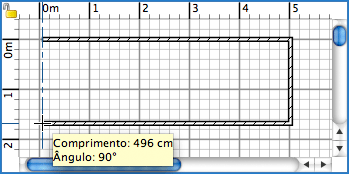
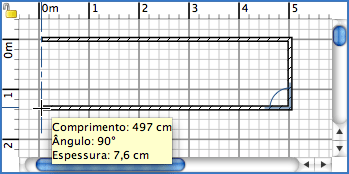
Updated help for new version

Changed region(s): [[0.0, 0.0, 0.9456, 1.0]]

diff --git a/trunk/SweetHome3D/src/com/eteks/sweethome3d/viewcontroller/resources/help/fr/editingPreferences.html b/trunk/SweetHome3D/src/com/eteks/sweethome3d/viewcontroller/resources/help/fr/editingPreferences.html
@@ -28,27 +28,45 @@
 	<tr>
 	<td><p>Pour &eacute;diter les pr&eacute;f&eacute;rences de Sweet Home 3D, choisissez <i>Sweet Home 3D &gt; Pr&eacute;f&eacute;rences...</i> sous
 	    Mac OS X ou <i>Fichier &gt; Pr&eacute;f&eacute;rences...</i> sous les autres syst&egrave;mes d'exploitation.</p>
-	  <p align="center"><img src="images/editingPreferences.png" width="300" height="233"></p>
+	  <p align="center"><img src="images/editingPreferences.png" width="424" height="306"></p>
 	  <p>Dans le panneau des pr&eacute;f&eacute;rences, vous pouvez choisir la <i>Langue</i> utilis&eacute;e dans l'interface utilisateur
 	    de Sweet Home 3D et l'<i>Unit&eacute;</i> utilis&eacute;e
 	    pour dessiner les r&egrave;gles et la grille du plan du
-	    logement, et pour afficher les longueurs. <br>
-	    La bo&icirc;te &agrave; cocher <i>Magn&eacute;tisme</i> active ou d&eacute;sactive le magn&eacute;tisme utilis&eacute; dans le plan du logement
-	    au cours du dessin des murs et le positionnement des meubles.<br>
-	    La bo&icirc;te &agrave; cocher <i>R&egrave;gles</i> permet de rendre visibles ou invisibles les r&egrave;gles affich&eacute;es
-	    en haut et &agrave; gauche du plan.<br>
-	    La bo&icirc;te &agrave; cocher <i>Grille</i> permet de rendre visible ou invisible la grile affich&eacute;e
-	    sous le plan.<br>
-La valeur de l'<i>Epaisseur des nouveaux murs</i> d&eacute;termine l'&eacute;paisseur des murs qui seront cr&eacute;&eacute;s
-	    une fois que le panneau des pr&eacute;f&eacute;rences sera ferm&eacute;.<br>
-	    La valeur de la <i>Hauteur des nouveaux murs</i> d&eacute;termine la hauteur des murs  qui seront
-	    cr&eacute;&eacute;s
-	    une fois que le panneau des pr&eacute;f&eacute;rences sera ferm&eacute;.</p>
-	  <p>Finallement, le bouton <i>R&eacute;initialiser l'affichage des conseils</i> r&eacute;initialise les r&eacute;ponses que vous avez
+	    logement, et pour afficher les longueurs. </p>
+	  <p> La bo&icirc;te &agrave; cocher <i>Magn&eacute;tisme</i> active ou d&eacute;sactive le magn&eacute;tisme utilis&eacute; dans
+	    le plan du logement au cours du dessin des murs et le positionnement des meubles.<br>
+	      La bo&icirc;te &agrave; cocher <i>R&egrave;gles</i> permet de rendre visibles ou invisibles les r&egrave;gles affich&eacute;es
+	      en haut et &agrave; gauche du plan.<br>
+	      La bo&icirc;te &agrave; cocher <i>Grille</i> permet de rendre visible ou invisible la grile affich&eacute;e
+	      sous le plan.<br>
+	      Les boutons radio <i>Ic&ocirc;nes du catalogue</i> et <i>Vue de dessus</i> permettent de choisir comment seront
+	      dessin&eacute;s les meubles dans le plan (voir les images ci-dessous).<br>
+Les boutons radio <i></i><i>Monochrome</i> et <i>Couleur ou texture du sol</i> permettent de choisir si les pi&egrave;ces doivent
+&ecirc;tre remplies dans le plan avec la couleur ou de la texture que vous avez choisies pour leur sol, ou en gris (en blanc
+&agrave; l'impression).<br>
+La liste d&eacute;roulante <i>Motif des murs dans le plan</i> permet de choisir le motif de remplissage des murs dans le
+plan.</p>
+	  <p>La valeur de l'<i>Epaisseur des nouveaux murs</i> d&eacute;termine l'&eacute;paisseur des murs qui seront cr&eacute;&eacute;s
+	        une fois que le panneau des pr&eacute;f&eacute;rences sera ferm&eacute;.<br>
+          La valeur de la <i>Hauteur des nouveaux murs</i> d&eacute;termine la hauteur des murs  qui seront
+	        cr&eacute;&eacute;s
+	        une fois que le panneau des pr&eacute;f&eacute;rences sera ferm&eacute;.</p>	  <p>Finallement, le bouton <i>R&eacute;initialiser l'affichage des conseils</i> r&eacute;initialise les r&eacute;ponses que vous avez
 	    donn&eacute;es aux bo&icirc;tes &agrave; cocher <i>Ne plus afficher ce conseil</i> affich&eacute;es dans les conseils
 	    qui apparaissent quand vous cliquez sur certains outils. Ceci implique que tous les dialogues o&ugrave; vous avez coch&eacute;
-	    cette option r&eacute;apparaitont au moment o&ugrave; vous cliquerez &agrave; nouveau sur ces outils.<br>
-        </p></td>
+	    cette option r&eacute;apparaitont au moment o&ugrave; vous cliquerez &agrave; nouveau sur ces outils.</p>
+	  <table border="0" align="center" cellpadding="0" cellspacing="5">
+        <tr align="center">
+          <td><img src="../images/defaultRendering.png" width="332" height="296"></td>
+          <td rowspan="2">&nbsp;&nbsp;&nbsp;</td>
+          <td><img src="../images/coloredRendering.png" width="332" height="296"></td>
+        </tr>
+        <tr>
+          <td align="center" valign="top">Rendu du plan par d&eacute;faut avec les ic&ocirc;nes du catalogue,<br>
+      les sols monochromes et les murs hachur&eacute;s</td>
+          <td align="center" valign="top">Rendu du plan avec les meubles vus de dessus,<br>
+      les sols color&eacute;s, et les murs en noir</td>
+        </tr>
+      </table></td>
 	</tr>
 </table>
 <div id="taskbox">
@@ -62,6 +80,16 @@ La valeur de l'<i>Epaisseur des nouveaux murs</i> d&eacute;termine l'&eacute;pai
           <td><p>Les pr&eacute;f&eacute;rences sont partag&eacute;es par toutes les fen&ecirc;tres Sweet Home 3D. Ainsi,
               la modification des pr&eacute;f&eacute;rences
               affectera toutes les fen&ecirc;tres ouvertes.</p>
+          </td>
+        </tr>
+        <tr valign="top">
+          <td><p>&#149;</p>
+          </td>
+          <td>
+            <p>Il est possible que la vue de dessus des meubles ne soit pas disponible &agrave; cause d'une configuration
+              limit&eacute;e
+              de votre syst&egrave;me. Dans ce cas, les boutons radio <i>Ic&ocirc;nes du catalogue</i> et <i>Vue de dessus</i> seront
+              d&eacute;sactiv&eacute;s.</p>
           </td>
         </tr>
         <tr valign="top">

diff --git a/trunk/SweetHome3D/src/com/eteks/sweethome3d/viewcontroller/resources/help/en/editingPreferences.html b/trunk/SweetHome3D/src/com/eteks/sweethome3d/viewcontroller/resources/help/en/editingPreferences.html
@@ -28,24 +28,40 @@
 	<tr>
 	<td><p>To edit Sweet Home 3D preferences, choose <i>Sweet Home 3D &gt; Preferences...</i> under Mac OS X or <i>File &gt; Preferences...</i> under
 	    other systems.</p>
-	  <p align="center"><img src="images/editingPreferences.png" width="244" height="230"></p>
+	  <p align="center"><img src="images/editingPreferences.png" width="338" height="305"></p>
 	  <p>In the preferences pane, you can choose the <i>Language</i> used in Sweet Home 3D user interface and the <i>Unit</i> used
-	    to draw  the rulers and grid of the home plan, and to display lengths and areas.<br>
-	    The <i>Magnetism</i> check
-	    box enables or disables the magnetism used in the home plan during <a href="drawingWalls.html">walls drawing</a> and <a href="editingFurniture.html">furniture
-	    placing</a>.<br>
-	    The <i>Rulers</i> check box allows to make the rulers around the plan visible or invisible.<br>
-	    The <i>Grid</i> check box allows to make the grid in the plan visible or invisible.<br>
-	      The <i>New walls thickness</i> value sets the thickness of all the walls that will be created once the preferences
-	      pane will be closed.<br>
-	      The <i>New  walls height</i> value 
-	      sets the height of all the walls that will be created once the preferences pane will
-      be closed.                                                                                                                                                                                                                                                                                                                                                                                                                                                                                                                                                                                                                                                                                                                                                                                                                                                                                                                                                                                                                                       </p>
-	  <p>Finally, the <i>Reset the display of tips</i> button resets the answers you gave to the check box <i>Do not display
+	    to draw  the rulers and grid of the home plan, and to display lengths and areas.</p>
+	  <p>	      The <i>Magnetism</i> check
+	      box enables or disables the magnetism used in the home plan during <a href="drawingWalls.html">walls drawing</a> and <a href="editingFurniture.html">furniture
+	      placing</a>.<br>
+	      The <i>Rulers</i> check box allows to make the rulers around the plan visible or invisible.<br>
+	      The <i>Grid</i> check box allows to make the grid in the plan visible or invisible.<br>
+	      The <i>Catalog icons</i> and  <i>Top view</i> radio buttons let you choose how the furniture should be drawn in
+	      the plan (see images below).<br>
+	      The <i>Monochrome</i> and <i>Floor color or texture</i> radio buttons let you choose whether rooms should be drawn
+	      in plan filled with the color or texture you chose for their floor, or with a grey color (printed as white).<br>
+	      The <i>Wall pattern in plan</i> combo box lets you choose the pattern used to fill walls in plan.</p>
+	  <p>	      The <i>New walls thickness</i> value sets the thickness of all the walls that will be created once the preferences
+	        pane will be closed.<br>
+          The <i>New  walls height</i> value 
+	        sets the height of all the walls that will be created once the preferences pane will
+        be closed. </p>	  <p>Finally, the <i>Reset the display of tips</i> button resets the answers you gave to the check box <i>Do not display
 	      this tip again</i> shown in the tips dialog boxes displayed when you click on some tools. This means that all the
 	      dialog boxes where you selected this check box  will appear
-	    again.<br>
-        </p></td>
+	    again.</p>
+	  <table border="0" align="center" cellpadding="0" cellspacing="5">
+        <tr align="center">
+          <td><img src="../images/defaultRendering.png" width="332" height="296"></td>
+          <td rowspan="2">&nbsp;&nbsp;&nbsp;</td>
+          <td><img src="../images/coloredRendering.png" width="332" height="296"></td>
+        </tr>
+        <tr>
+          <td align="center" valign="top">Default plan rendering with catalog icons,<br>
+            monochrome floors and walls filled with a hatch pattern</td>
+          <td align="center" valign="top">Plan rendering with top view furniture icons,<br>
+            floor colors, and walls filled with black color</td>
+        </tr>
+      </table>	  </td>
 	</tr>
 </table>
 <div id="taskbox">
@@ -59,6 +75,14 @@
 	    <td><p>Preferences are shared by all Sweet Home 3D windows. Therefore, editing preferences will have an effect on all
 	        opened windows.</p>
 	      </td>
+	    </tr>
+	  <tr valign="top">
+        <td><p>&#149;</p>
+        </td>
+        <td>
+          <p>Furniture icons seen from top  may not be available due to a limited configuration of your system. In
+            that case, the <i>Catalog icons</i> and <i>Top view</i> radio buttons will be  disabled.</p>
+        </td>
 	    </tr>
 	  <tr valign="top"><td width="16"><p>&#149;</p></td><td><p>Magnetism set
 	        in preferences pane can be temporarily toggled in the home plan, by pressing the <i>shift</i> key.</p></td></tr>

diff --git a/trunk/SweetHome3D/src/com/eteks/sweethome3d/viewcontroller/resources/help/en/drawingWalls.html b/trunk/SweetHome3D/src/com/eteks/sweethome3d/viewcontroller/resources/help/en/drawingWalls.html
@@ -33,15 +33,18 @@
 	        walls</i> tool</p>
 	    </blockquote>	  
 	  <p>Click in the home plan at the start point of the new wall, then click or double-click in the plan at its end point.
-	    As long as you don't double-click or press the <i>Escape</i> key, each new click indicates the opposite point of the current
-	    wall and the start point of the next wall. While drawing a set of walls, the start point of the first wall will
-	    be
+	    As long as you don't double-click or press the <i>Escape</i> key, each new click indicates the opposite point of the
+	    current wall and the start point of the next wall. While drawing a set of walls, the start point of the first wall
+	    will be
 	    attached to
 	    an existing
 	    wall start or end point if you
 	    click on that point, and the last  wall will be attached to another wall start or end point by
-	    double-clicking on that point. The clicked points are at the middle of the thickness of the drawn walls.<br>
-	    Walls are simultaneously drawn in the plan and in the 3D view.</p>
+	    double-clicking on that point. The clicked points are at the middle of the thickness of the drawn walls&nbsp;; the
+	     thickness and the  height of new walls can be changed in the <a href="editingPreferences.html">preferences</a> pane.<br>
+	    If you already <a href="drawingRooms.html">drew a room</a>, you can also create the
+	    walls around it by  double-clicking anywhere in that room. <br>
+      Walls are simultaneously drawn in the plan and in the 3D view.                                                                                                                                                                                                                                                                                                                                                                                                                                                                                                                                                                                                                                                                                                                                                                                                                                                                                                                                                                                                                                       </p>
 	  <p align="center"><img src="images/drawingWalls.png" alt="Drawing walls" width="349" height="174"></p>	  
 	  <p>To end
 	    the drawing of walls, choose <i>Plan &gt; Select </i> or select the <i>Select</i> tool.</p>
@@ -69,7 +72,13 @@
           <p>&#149;</p>
         </td>
         <td>
-          <p>To help you draw walls precisely, use wall length tooltip and alignment  lines.</p>
+          <p>To help you draw walls precisely, use the wall tooltip and the alignment  lines. If you press the <i>enter</i> key
+            when the plan has the focus, the values displayed in the tooltip will become editable to let you enter with the
+            keyboard the length, the angle and the thickness of the current wall (if you didn't start any wall yet,
+            the tooltip will display the coordinates of the start point of the new wall). Use the <i>up arrow</i>, <i>down
+            arrow</i> or <i>tab</i> keys
+            to edit an other value and press again the <i>enter</i> key to confirm the values you entered. If you want to
+            use again the mouse to draw walls, simply move it over the plan.</p>
         </td>
 	    </tr>
 	  <tr valign="top">
@@ -106,7 +115,7 @@
         </td>
         <td>
           <p>The unit displayed by default in tooltips, plan rulers and plan grid depends on your country. You may switch
-            to Centimeter or Inch in the <a href="editingPreferences.html">preferences</a> pane.          
+            to Centimeter, Meter, Millimeter  or Inch in the <a href="editingPreferences.html">preferences</a> pane.          
         </td>
 	    </tr>
 	  <tr valign="top">

diff --git a/trunk/SweetHome3D/src/com/eteks/sweethome3d/viewcontroller/resources/help/fr/drawingWalls.html b/trunk/SweetHome3D/src/com/eteks/sweethome3d/viewcontroller/resources/help/fr/drawingWalls.html
@@ -39,7 +39,10 @@
 	    d'un ensemble de murs, l'extr&eacute;mit&eacute; de d&eacute;part du premier mur sera attach&eacute;e &agrave; l'extr&eacute;mit&eacute; d'un
 	    mur existant si vous cliquez sur cette extr&eacute;mit&eacute;, et le dernier mur sera attach&eacute; &agrave; l'extr&eacute;mit&eacute; d'un
 	    autre mur si vous double-cliquez sur cette extr&eacute;mit&eacute;. Les extr&eacute;mit&eacute;s des murs que vous d&eacute;signez &agrave; chaque
-	    clic sont au milieu de l'&eacute;paisseur des murs dessin&eacute;s.<br>
+	    clic sont au milieu de l'&eacute;paisseur des murs dessin&eacute;s&nbsp;; l'&eacute;paisseur et la hauteur  des nouveaux
+	    murs peut &ecirc;tre modifi&eacute;es dans le panneau des <a href="editingPreferences.html">pr&eacute;f&eacute;rences</a>.<br>
+Si vous avez d&eacute;j&agrave; <a href="drawingRooms.html">dessin&eacute; une pi&egrave;ce</a>, vous pouvez cr&eacute;er aussi
+les murs autour de celle-ci en double-cliquant n'importe o&ugrave; dans cette pi&egrave;ce.<br>
 	    Les murs sont dessin&eacute;s simultan&eacute;ment dans le plan et dans la vue 3D.</p>
 	  <p align="center"><img src="images/drawingWalls.png" alt="Drawing walls" width="349" height="176"></p>	  
 	  <p>Pour terminer le dessin des murs, choisissez <i>Plan &gt; S&eacute;lectionner</i> ou s&eacute;lectionnez l'outil <i>S&eacute;lectionner</i> (ou
@@ -68,8 +71,15 @@
           <p>&#149;</p>
         </td>
         <td>
-          <p>Pour vous aider &agrave; dessiner les murs avec pr&eacute;cision, utilisez l'info-bulle indiquant la longueur
-            du mur et les lignes d'alignement sur les autres murs.</p>
+          <p>Pour vous aider &agrave; dessiner les murs avec pr&eacute;cision, utilisez l'info-bulle associ&eacute;e
+            au mur et les lignes d'alignement sur les autres murs. Si vous appuyez sur la touche <i>entr&eacute;e</i> quand
+            le plan a le focus, les valeurs affich&eacute;es dans l'info-bulle deviendront &eacute;ditables pour vous permettre
+            d'entrer au clavier la longueur, l'angle et l'&eacute;paisseur du mur en cours  (si vous n'avez d&eacute;but&eacute; aucun
+            mur, l'info-bulle affichera les coordonn&eacute;es du point de d&eacute;part du nouveau mur). Utilisez les touches <i>fl&egrave;che
+            haut</i>, <i>fl&egrave;che
+            bas</i>            ou <i>tab</i> pour &eacute;diter une autre valeur et appuyez &agrave; nouveau sur la touche <i>entr&eacute;e</i>            pour
+            confirmer les valeurs saisies. Si vous voulez r&eacute;utiliser la souris pour dessiner les murs, d&eacute;placez
+            simplement la souris dans le plan.</p>
         </td>
 	    </tr>
 	  <tr valign="top">
@@ -107,7 +117,8 @@
         </td>
         <td>
           <p>L'unit&eacute; affich&eacute;e par d&eacute;faut dans les info-bulles, les r&egrave;gles et la grille du plan
-            d&eacute;pend de votre pays. Vous pouvez choisir entre le Centim&egrave;tre et le Pouce dans le panneau des <a href="editingPreferences.html">pr&eacute;f&eacute;rences</a>. </td>
+            d&eacute;pend de votre pays. Vous pouvez choisir entre le Centim&egrave;tre, le M&egrave;tre, le Millim&egrave;tre  et
+            le Pouce dans le panneau des <a href="editingPreferences.html">pr&eacute;f&eacute;rences</a>. </td>
 	    </tr>
 	  <tr valign="top">
         <td>

diff --git a/trunk/SweetHome3D/src/com/eteks/sweethome3d/viewcontroller/resources/help/fr/drawingRooms.html b/trunk/SweetHome3D/src/com/eteks/sweethome3d/viewcontroller/resources/help/fr/drawingRooms.html
@@ -109,12 +109,28 @@
           <p>&#149;</p>
         </td>
         <td>
-          <p>Pour vous aider &agrave; dessiner les pi&egrave;ces avec pr&eacute;cision, utilisez les lignes d'alignement
-             et les guides ponctuels qui apparaissent &agrave; l'approche de l'intersection des murs. Si vous voulez d&eacute;sactiver
-             le magn&eacute;tisme appliqu&eacute; &agrave; l'intersection des murs et &agrave; l'angle des lignes que vous dessinez,
-             maintenez la touche
-            <i>majuscule</i> enfonc&eacute;e pendant le dessin, ou  d&eacute;sactivez le magn&eacute;tisme dans le panneau
-            des<a href="editingPreferences.html"> pr&eacute;f&eacute;rences</a>.</p>
+          <p>Pour vous aider &agrave; dessiner les pi&egrave;ces avec pr&eacute;cision, utilisez les info-bulles, les lignes
+            d'alignement et les guides ponctuels qui apparaissent &agrave; l'approche de l'intersection des murs. Si vous
+            appuyez sur la touche <i>entr&eacute;e</i> quand le plan a le focus, les valeurs affich&eacute;es dans l'info-bulle
+            deviendront &eacute;ditables pour vous permettre d'entrer au clavier la longueur et l'angle 
+            du segment en cours (si vous n'avez pas encore  d&eacute;sign&eacute; le premier point de la pi&egrave;ce, l'info-bulle
+            affichera les coordonn&eacute;es
+            de ce point). Utilisez les touches <i>fl&egrave;che haut</i>, <i>fl&egrave;che
+            bas</i> ou <i>tab</i> pour &eacute;diter
+            une autre valeur et appuyez &agrave; nouveau sur la touche <i>entr&eacute;e</i> pour confirmer les valeurs saisies.
+            Si vous voulez r&eacute;utiliser la souris pour dessiner la pi&egrave;ce, d&eacute;placez simplement la souris
+            dans le plan.</p>
+        </td>
+	    </tr>
+	  <tr valign="top">
+        <td>
+          <p>&#149;</p>
+        </td>
+        <td>
+          <p> Si vous voulez d&eacute;sactiver
+            le magn&eacute;tisme appliqu&eacute; &agrave; l'intersection des murs et &agrave; l'angle des lignes que vous
+            dessinez, maintenez la touche <i>majuscule</i> enfonc&eacute;e pendant le dessin, ou d&eacute;sactivez le magn&eacute;tisme
+            dans le panneau des<a href="editingPreferences.html"> pr&eacute;f&eacute;rences</a>.</p>
         </td>
 	    </tr>
 	  <tr valign="top">
@@ -133,7 +149,8 @@
         </td>
         <td>
           <p>L'unit&eacute; affich&eacute;e par d&eacute;faut dans les pi&egrave;ces, les r&egrave;gles et la grille du plan
-            d&eacute;pend de votre pays. Vous pouvez choisir entre le Centim&egrave;tre et le Pouce dans le panneau des <a href="editingPreferences.html">pr&eacute;f&eacute;rences</a>.
+            d&eacute;pend de votre pays. Vous pouvez choisir entre le Centim&egrave;tre, le M&egrave;tre, le Millim&egrave;tre  et
+            le Pouce dans le panneau des <a href="editingPreferences.html">pr&eacute;f&eacute;rences</a>.
             Si l'unit&eacute; choisie est le Pouce, la superficie des pi&egrave;ces sera affich&eacute;e en pied carr&eacute; (sq ft), sinon elle sera
             affich&eacute;e en m&egrave;tre carr&eacute; (m&sup2;).</td>
 	    </tr>

diff --git a/trunk/SweetHome3D/src/com/eteks/sweethome3d/viewcontroller/resources/help/en/drawingRooms.html b/trunk/SweetHome3D/src/com/eteks/sweethome3d/viewcontroller/resources/help/en/drawingRooms.html
@@ -36,7 +36,7 @@
 	  <ul>
 	    <li>click at each corner of the room, then double-click at its last point
 	      or press the <i>Escape</i> key after you added the last point, </li>
-	    <li>double-click anywhere inside an existing <b>closed</b> surface (i.e. surrounded by walls).</li>
+	    <li>double-click anywhere inside an existing <b>closed</b> surface (i.e. surrounded by <a href="drawingWalls.html">walls</a>).</li>
 	  </ul>
 	  <p>When you draw a room point by point under  magnetism activated, a colored point guide will show up  to help you click
 	    at each corner of the room. A room created with a double click will cover the floor area from wall to wall surrounding
@@ -104,9 +104,25 @@
           <p>&#149;</p>
         </td>
         <td>
-          <p>To help you draw rooms precisely, use  alignment  lines and wall intersection point guides. If you want to disable
-            the activated magnetism  on wall intersection points and for the angles of the lines you draw, hold
-            down the <i>shift</i> key while drawing, or by disabling magnetism in the <a href="editingPreferences.html">preferences</a> pane.</p>
+          <p>To help you draw rooms precisely, use  tooltips, alignment  lines and wall intersection point guides. If you
+            press the <i>enter</i> key
+            when the plan has the focus, the values displayed in the tooltip will become editable to let you enter with the
+            keyboard the length and the angle  of the current segment (if you didn't indicate
+            the first
+            point of the room yet, the tooltip will display the coordinates of that point). Use the
+            up arrow, down arrow
+            or <i>tab</i> keys
+            to edit an other value and press again the <i>enter</i> key to confirm the values you entered. If you want to
+            use again the mouse to draw the room, simply move it over the plan.</p>
+        </td>
+	    </tr>
+	  <tr valign="top">
+        <td>
+          <p>&#149;</p>
+        </td>
+        <td>
+          <p>If you want to disable the activated magnetism on wall intersection points and for the angles of the lines you
+            draw, hold down the <i>shift</i> key while drawing, or by disabling magnetism in the <a href="editingPreferences.html">preferences</a> pane.</p>
         </td>
 	    </tr>
 	  <tr valign="top">
@@ -124,8 +140,9 @@
         </td>
         <td>
           <p>The unit displayed by default in the room, plan rulers and plan grid depends on your country. You may switch
-            to Centimeter or Inch in the <a href="editingPreferences.html">preferences</a> pane. If Inch is the chosen
-            unit,  the room areas will be displayed in square feet, otherwise they will be displayed in square meter.</td>
+            to Centimeter, Meter, Millimeter or Inch in the <a href="editingPreferences.html">preferences</a> pane. If Inch
+            is the chosen unit, the room areas will be displayed in square feet, otherwise they will be displayed in square
+            meter.</td>
 	    </tr>
 	  <tr valign="top">
         <td>

diff --git a/trunk/SweetHome3D/src/com/eteks/sweethome3d/viewcontroller/resources/help/fr/editingRooms.html b/trunk/SweetHome3D/src/com/eteks/sweethome3d/viewcontroller/resources/help/fr/editingRooms.html
@@ -173,7 +173,8 @@
             </td>
             <td>
               <p>L'unit&eacute; affich&eacute;e par d&eacute;faut dans les pi&egrave;ces, les r&egrave;gles et la grille
-                du plan d&eacute;pend de votre pays. Vous pouvez choisir entre le Centim&egrave;tre et le Pouce dans le panneau
+                du plan d&eacute;pend de votre pays. Vous pouvez choisir entre le Centim&egrave;tre, le M&egrave;tre, le
+                Millim&egrave;tre  et le Pouce dans le panneau
                 des <a href="editingPreferences.html">pr&eacute;f&eacute;rences</a>. Si l'unit&eacute; choisie est le Pouce,
                 la superficie des pi&egrave;ces sera affich&eacute;e en pied carr&eacute; (sq ft), sinon elle sera affich&eacute;e
               en m&egrave;tre carr&eacute; (m&sup2;).</td>

diff --git a/trunk/SweetHome3D/src/com/eteks/sweethome3d/viewcontroller/resources/help/fr/editingFurniture.html b/trunk/SweetHome3D/src/com/eteks/sweethome3d/viewcontroller/resources/help/fr/editingFurniture.html
@@ -195,7 +195,8 @@ Les meubles modifi&eacute;s avec la souris sont dessin&eacute;s simultan&eacute;
             <td>
               <p>L'unit&eacute; affich&eacute;e par d&eacute;faut dans les info-bulles et le panneau d'un meuble
                 d&eacute;pend
-              de votre pays. Vous pouvez choisir entre le Centim&egrave;tre et le Pouce dans le panneau des <a href="editingPreferences.html">pr&eacute;f&eacute;rences</a>.</td>
+              de votre pays. Vous pouvez choisir entre le Centim&egrave;tre, le M&egrave;tre, le Millim&egrave;tre  et le
+              Pouce dans le panneau des <a href="editingPreferences.html">pr&eacute;f&eacute;rences</a>.</td>
           </tr>
           <tr valign="top">
             <td>

diff --git a/trunk/SweetHome3D/src/com/eteks/sweethome3d/viewcontroller/resources/help/fr/editingWalls.html b/trunk/SweetHome3D/src/com/eteks/sweethome3d/viewcontroller/resources/help/fr/editingWalls.html
@@ -165,8 +165,8 @@
             </td>
             <td>
               <p>L'unit&eacute; affich&eacute;e par d&eacute;faut dans l'info-bulle de longueur et le panneau d'un mur d&eacute;pend
-                de votre pays. Vous pouvez choisir entre le Centim&egrave;tre et le
-              Pouce dans le panneau des <a href="editingPreferences.html">pr&eacute;f&eacute;rences</a>.</td>
+                de votre pays. Vous pouvez choisir entre le Centim&egrave;tre, le M&egrave;tre, le Millim&egrave;tre  et
+              le Pouce dans le panneau des <a href="editingPreferences.html">pr&eacute;f&eacute;rences</a>.</td>
           </tr>
           <tr valign="top">
             <td>

diff --git a/trunk/SweetHome3D/src/com/eteks/sweethome3d/viewcontroller/resources/help/fr/importingFurniture.html b/trunk/SweetHome3D/src/com/eteks/sweethome3d/viewcontroller/resources/help/fr/importingFurniture.html
@@ -167,7 +167,8 @@
             </td>
             <td>
               <p>L'unit&eacute; affich&eacute;e par d&eacute;faut dans l'assistant importation de meubles d&eacute;pend
-              de votre pays. Vous pouvez choisir entre le Centim&egrave;tre et le Pouce dans le panneau des <a href="editingPreferences.html">pr&eacute;f&eacute;rences</a>.</td>
+              de votre pays. Vous pouvez choisir entre le Centim&egrave;tre, le M&egrave;tre, le Millim&egrave;tre et le Pouce dans le
+              panneau des <a href="editingPreferences.html">pr&eacute;f&eacute;rences</a>.</td>
           </tr>
           <tr valign="top">
             <td>

diff --git a/trunk/SweetHome3D/src/com/eteks/sweethome3d/viewcontroller/resources/help/fr/editingDimensions.html b/trunk/SweetHome3D/src/com/eteks/sweethome3d/viewcontroller/resources/help/fr/editingDimensions.html
@@ -137,7 +137,8 @@
             </td>
             <td>
               <p>La longueur affich&eacute;e sur les cotes est exprim&eacute;e par d&eacute;faut dans l'unit&eacute; de votre
-              pays. Vous pouvez choisir entre le Centim&egrave;tre et le Pouce dans le panneau des <a href="editingPreferences.html">pr&eacute;f&eacute;rences</a>.</td>
+              pays. Vous pouvez choisir entre le Centim&egrave;tre, le M&egrave;tre, le Millim&egrave;tre  et le Pouce dans
+              le panneau des <a href="editingPreferences.html">pr&eacute;f&eacute;rences</a>.</td>
           </tr>
         </table>
       </td>

diff --git a/trunk/SweetHome3D/src/com/eteks/sweethome3d/viewcontroller/resources/help/fr/importingBackground.html b/trunk/SweetHome3D/src/com/eteks/sweethome3d/viewcontroller/resources/help/fr/importingBackground.html
@@ -140,7 +140,8 @@
             <td>
               <p>L'unit&eacute; affich&eacute;e par d&eacute;faut dans  l'assistant
                 image d'arri&egrave;re plan  d&eacute;pend de votre pays. Vous
-              pouvez choisir entre le Centim&egrave;tre et le Pouce dans le panneau des <a href="editingPreferences.html">pr&eacute;f&eacute;rences</a>.</td>
+              pouvez choisir entre le Centim&egrave;tre, le M&egrave;tre, le Millim&egrave;tre  et le Pouce dans le panneau
+              des <a href="editingPreferences.html">pr&eacute;f&eacute;rences</a>.</td>
           </tr>
         </table>
       </td>
